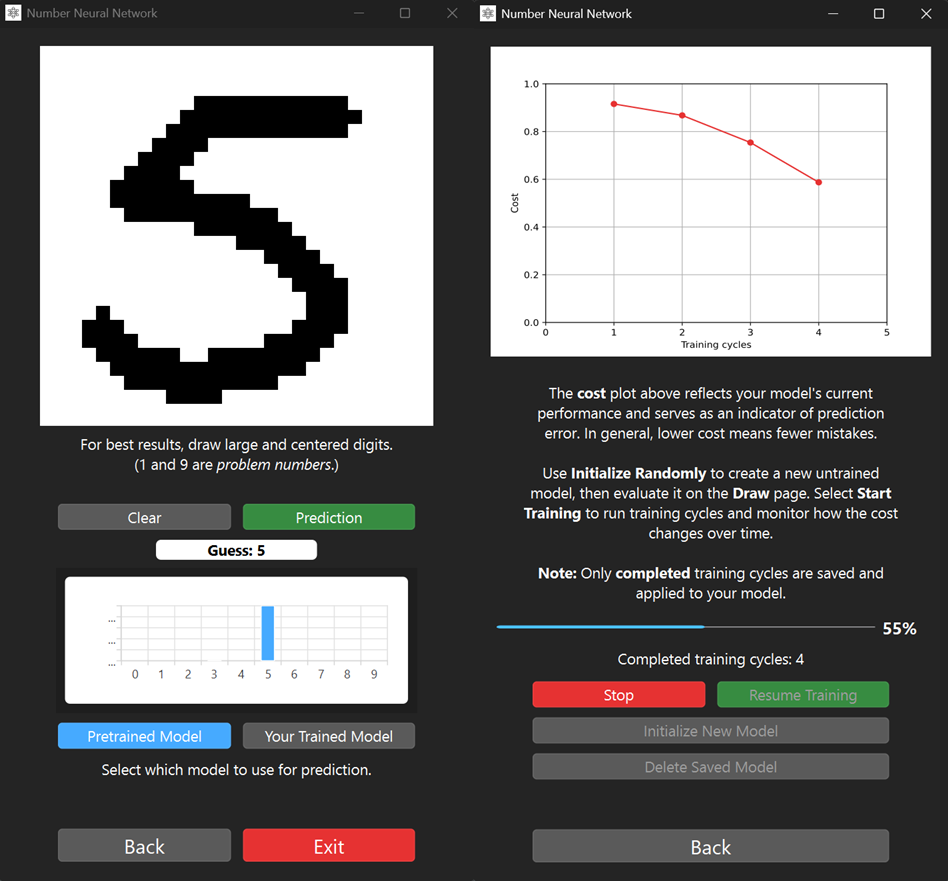
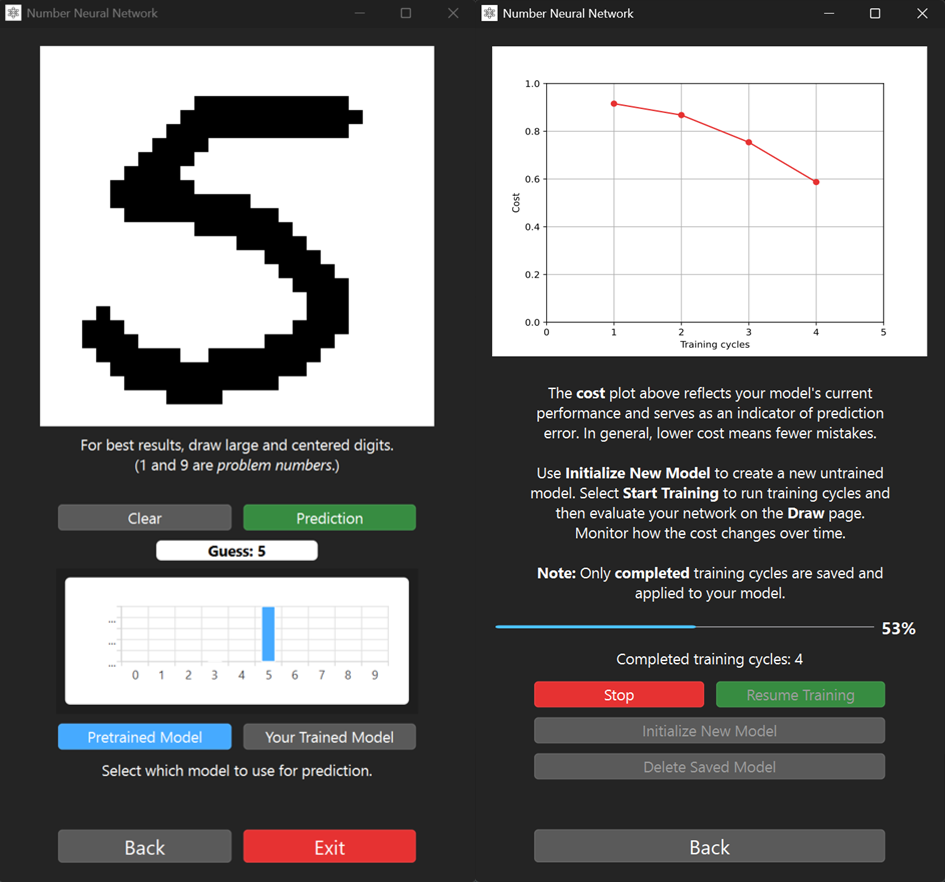
Fixed some smaller texting errors

diff --git a/src/neuralnetwork/gui.py b/src/neuralnetwork/gui.py
@@ -794,7 +794,7 @@ class Ui_MainWindow(object):
         MainWindow.setWindowIcon(QIcon("src/neuralnetwork/assets/neural_icon.png"))
         self.InfoLabel1.setText(_translate("MainWindow", "<b>Welcome to the Number Neural Network!</b> <br><br>" \
                           "This application demonstrates handwritten digit recognition with a feed-forward neural network. <br><br>" \
-                          "Use <b>Draw</b> to test predictions in real time with the pretrained model, or open <b>Training</b> to initialize and improve your own model cycle by cycle."))
+                          "Use <b>Draw</b> to test predictions in real time with a pretrained model, or open <b>Training</b> to initialize and improve your own model cycle by cycle."))
         self.InfoLabel2.setText(_translate("MainWindow", "The diagram above summarizes the model architecture: 784 input neurons (28x28 pixels with normalized values from 0 to 1), " \
                             "two hidden layers with 16 neurons each, and 10 output neurons representing digits 0-9. " \
                             "Predictions are determined by weights and biases (W and b), which are updated during training to reduce the network's error (<b><i>cost</i></b>). <br>" \
@@ -812,8 +812,8 @@ class Ui_MainWindow(object):
         self.ExitButtonDraw.setText(_translate("MainWindow", "Exit"))
         self.TrainingLabel.setText(_translate("MainWindow", "The <b>cost</b> plot above reflects your model's current performance and serves as an indicator of prediction error. " \
                                     "In general, lower cost means fewer mistakes. <br><br>" \
-                                    "Use <b>Initialize Randomly</b> to create a new untrained model, then evaluate it on the <b>Draw</b> page. " \
-                                    "Select <b>Start Training</b> to run training cycles and monitor how the cost changes over time. <br><br>" \
+                                    "Use <b>Initialize New Model</b> to create a new untrained model. Select <b>Start Training</b> to run training cycles and then evaluate your network on the <b>Draw</b> page. <br>" \
+                                    "Monitor how the cost changes over time. <br><br>" \
                                     "<b>Note:</b> Only <b>completed</b> training cycles are saved and applied to your model."))
         self.CycleLabel.setText(_translate("MainWindow", f"Completed training cycles: {self.CycleNum}"))
         self.StopButton.setText(_translate("MainWindow", "Stop"))

diff --git a/README.md b/README.md
@@ -44,6 +44,8 @@ This repository demonstrates a compact, educational neural network for digit cla
 - Interactive PyQt6 app with possibilities to draw digits and view output probabilities, and training a fresh model
 - Saved model weights and biases for a pre-trained state
 
+## GUI
+
 <p align="center">
     <img src="docs/images/gui_examples.png" width="800" alt="GUI">
 </p>
